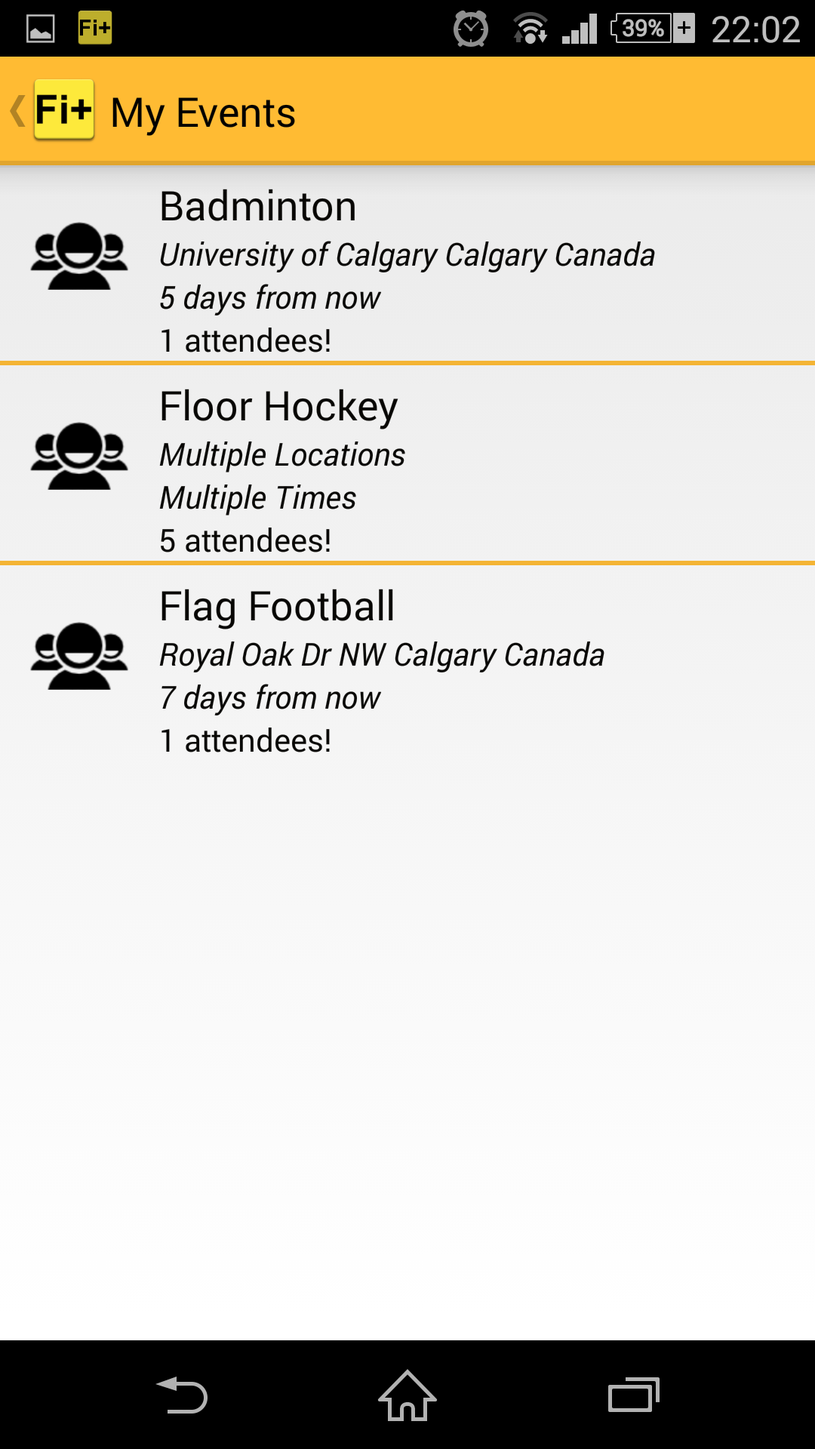
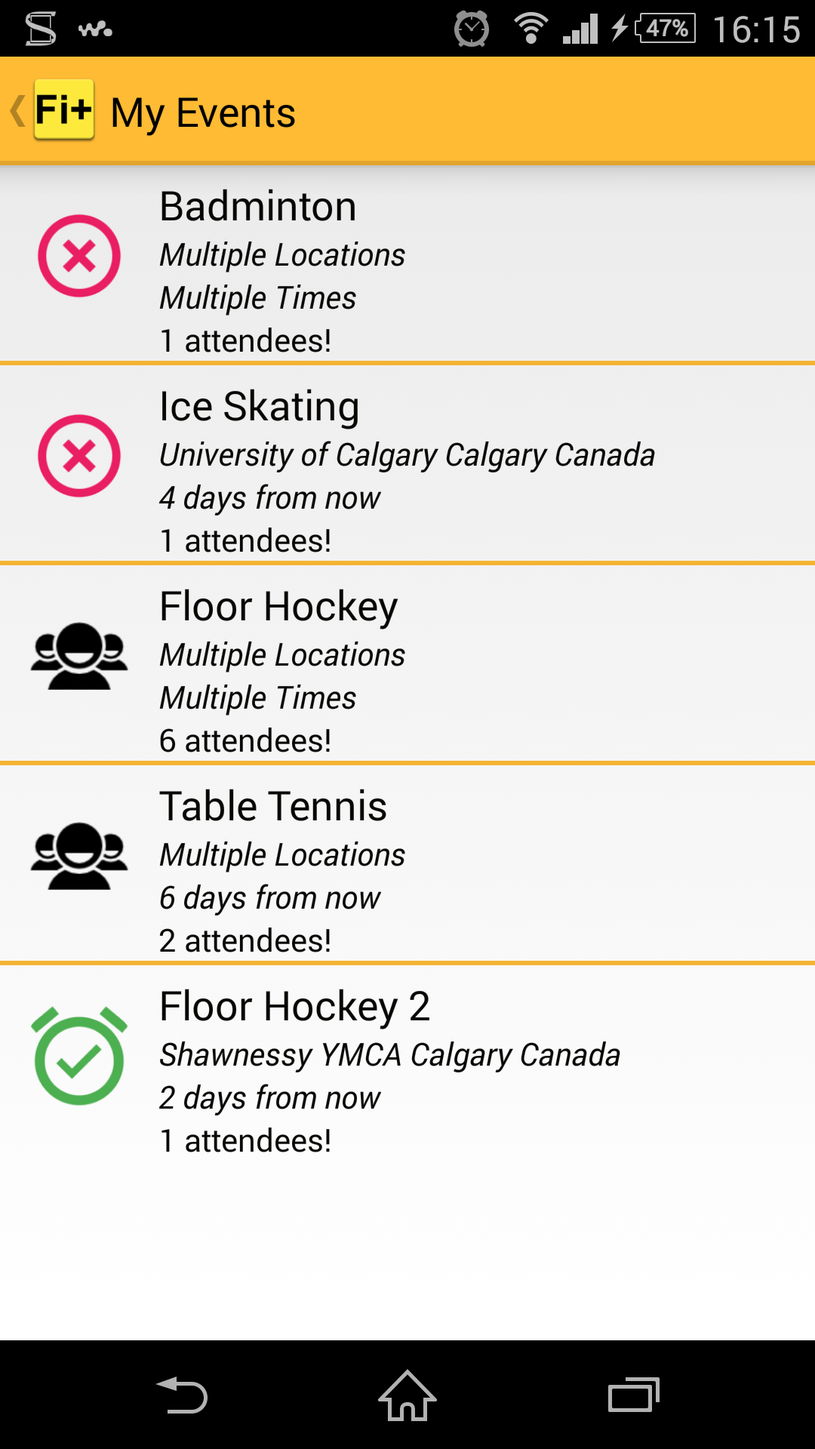
Mainpage and Tutorial updated with images and corrections

diff --git a/index.html b/index.html
@@ -14,7 +14,7 @@
 
     
     
-<style id="current-page-style">.page-help{display:inherit; }</style><link href="http://fonts.googleapis.com/css?family=Bree+Serif" rel="stylesheet" type="text/css" class="silex-custom-font">      <link href="css/styles.css" rel="stylesheet">      <script src="js/script.js" type="text/javascript"></script>  </head><body class="silex-runtime silex-container element-0 silex-runtime silex-published">
+<link href="http://fonts.googleapis.com/css?family=Bree+Serif" rel="stylesheet" type="text/css" class="silex-custom-font"><style id="current-page-style">.page-help{display:inherit; }</style>      <link href="css/styles.css" rel="stylesheet">      <script src="js/script.js" type="text/javascript"></script>  </head><body class="silex-runtime silex-container element-0 silex-runtime silex-published">
     <a id="page-mainpage" data-silex-type="page" class="page-element">Mainpage</a>
     
 
@@ -72,7 +72,7 @@
             
             
             
-            <div class="editable-style image-element paged-element page-mainpage silex-image element-3"><img src="assets/screen.png" class="silex-element-content"></div><div class="editable-style image-element paged-element page-mainpage silex-image element-4"><img src="assets/Banner%20-%20Lines.png" class="silex-element-content"></div>
+            <div class="editable-style image-element paged-element page-mainpage silex-image element-3"><img src="assets/screen.png" class="silex-element-content"></div>
             
             
             
@@ -82,67 +82,59 @@
             
             
             
-            <div class="editable-style text-element paged-element page-mainpage silex-text element-5">
-                <div class="silex-element-content normal"><div style="text-align: left;"><font face="Bree Serif" size="7">The Fi+ Android App</font></div><div style="text-align: left;"><b><font size="4" face="Bree Serif"><br></font></b></div><font face="Bree Serif" size="4">Create fitness events on the fly.<br><br>Connect with others who want to participate.<br><br>And find the events you want to join.</font><br><div><div style="text-align: left;"><b><span><font face="Bree Serif">&nbsp;&nbsp; &nbsp;<span>&nbsp;&nbsp; &nbsp;<span>&nbsp;&nbsp; &nbsp;<span>&nbsp;&nbsp; &nbsp;<span>&nbsp;&nbsp; &nbsp;<span>&nbsp;&nbsp; &nbsp;<span>&nbsp;&nbsp; &nbsp;<span>&nbsp;&nbsp; &nbsp;</span></span></span></span></span></span></span></font></span></b></div><div style="text-align: left;"><b><span><font face="Bree Serif"><span><span><span><span><span><span><span><br></span></span></span></span></span></span></span></font></span></b></div><div style="text-align: left;"><br></div><div style="text-align: left;"><font face="Bree Serif" size="5">How it Works</font></div><div style="text-align: left;"><font face="Bree Serif" size="4">Matchmaking!</font></div><div style="text-align: left;"><span style="font-family: 'Bree Serif';">Fi+ offers the basic matchmaking and event creating functionalities of popular Apps such as MeetUp and Facebook.</span></div><div style="text-align: left;"><div style="font-weight: bold;"><font face="Bree Serif"><br></font></div><div><font face="Bree Serif" size="4">Fostering an Active Community!</font></div><div><font face="Bree Serif">Fi+ is built on an event based community. As opposed to group based communities, which become inactive over time.&nbsp;</font></div><div style="font-weight: bold;"><font face="Bree Serif"><br></font></div><div style="font-family: 'Bree Serif';"><font size="4">Expand Your Network!&nbsp;</font></div><div style="font-family: 'Bree Serif';"><div style="display: inline !important;">Events are open to all users of the App, keeping barriers to entry low.&nbsp;</div></div><div style="font-family: 'Bree Serif';"><div style="display: inline !important;"><font size="4"><br></font></div></div><div style="font-family: 'Bree Serif';"><font size="4">Collaborative Planning!</font></div><div style="font-family: 'Bree Serif';">Creators can allow suggestions for time and location. So gauge your audience and take your pick.</div><div style="font-family: 'Bree Serif';"><br></div><div style="font-family: 'Bree Serif'; font-weight: bold;"><i><b><br></b></i></div><div><font face="Bree Serif" size="4" color="#cc0000">With Fi+, you can save your time and energy for the game!</font></div><div><font size="4" face="Bree Serif"><i><br></i></font></div><div><font face="Bree Serif" size="5">Where to Begin</font></div><div><font face="Bree Serif"><a href="https://play.google.com/store/apps/details?id=com.Fiplus&amp;hl=en"><font color="#0000ff">Click here</font></a> to download Fi+ from the Google Playstore!</font></div><div><br></div><div><br></div><div><div><font face="Bree Serif"><br></font></div><div><font face="Bree Serif"><br></font></div><div><font face="Bree Serif"><br></font></div><div><br></div></div><div><br></div><div><font face="Bree Serif"><br></font></div></div></div></div>
+            
+            
+            
+            
+            <div class="editable-style image-element page-mainpage paged-element silex-image element-4"><img src="assets/General.png" class="silex-element-content"></div>
+            
+            
+            
+            
+            
+            <div class="editable-style image-element page-mainpage paged-element silex-image element-5"><img src="assets/Login.png" class="silex-element-content"></div>
+            
+            
+            
+            
+            
+            <div class="editable-style image-element page-mainpage paged-element silex-image element-6"><img src="assets/Create.png" class="silex-element-content"></div>
+            
+            
+            
+            
+            
+            
+            
+            
+            
+            
+            
+            
+            
+            
+            
+            
+            
+            
+            
+            
+            
+            <div class="editable-style image-element page-help paged-element silex-image element-7"><img src="assets/Config.png" class="silex-element-content"></div><div class="editable-style image-element page-help paged-element silex-image element-8"><img src="assets/Config_Filled.png" class="silex-element-content"></div>
+            
+            <div class="editable-style image-element page-help paged-element silex-image element-9"><img src="assets/General.png" class="silex-element-content"></div><div class="editable-style text-element page-help paged-element silex-text element-10">
+                <div class="silex-element-content normal"><div><b style="font-family: 'Bree Serif';">2. Filtering</b></div><div><div><font face="Bree Serif">&nbsp; - See all available Events in the <font color="#990000">Be FI+!</font> tab.</font></div><div><font face="Bree Serif">&nbsp; - Filter Events by your profile&nbsp;<font color="#b45f06">Location </font>with the <font color="#990000">Near You</font> tab.<br></font></div><div><font face="Bree Serif">&nbsp; - Filter Events by your profile&nbsp;<font color="#b45f06">Interests </font>with the <font color="#990000">Interest </font>tab.&nbsp;</font></div><div><font face="Bree Serif"><span>&nbsp; -&nbsp;</span>Simply press an Event to view more details!</font></div><div><span style="font-family: 'Bree Serif';"><br></span></div></div></div>
             </div>
             
-            
-            
-            <div class="editable-style image-element page-mainpage paged-element silex-image element-6"><img src="assets/General.png" class="silex-element-content"></div>
-            
-            
-            
-            
-            
-            <div class="editable-style image-element page-mainpage paged-element silex-image element-7"><img src="assets/ViewEvent.png" class="silex-element-content"></div><div class="editable-style image-element page-mainpage paged-element silex-image element-8"><img src="assets/Login.png" class="silex-element-content"></div>
-            
-            
-            
-            <div class="editable-style image-element page-mainpage paged-element silex-image element-9"><img src="assets/MyEvents.png" class="silex-element-content"></div>
-            
-            <div class="editable-style image-element page-mainpage paged-element silex-image element-10"><img src="assets/Create.png" class="silex-element-content"></div>
-            
-            
-            
-            
-            
-            
-            
-            
-            
-            
-            
-            <a class="editable-style text-element page-mainpage paged-element page-link-active silex-text element-11" href="#!page-help">
-                <div class="silex-element-content normal"><div><div><font face="Bree Serif" color="#0000ff">Click here </font><font face="Bree Serif">for Help/Tutorial</font></div></div><div><font face="Bree Serif"><br></font></div></div>
-            </a><div class="editable-style text-element page-mainpage paged-element silex-text element-12">
-                <div class="silex-element-content normal"><div><br></div><div><div><div><font face="Bree Serif" size="5">Legal</font></div><div><font color="#0000ff"><a href="http://fiplus.github.io/PrivacyPolicy.html" style="font-family: 'Bree Serif';">Fi+ Privacy Policy</a><span style="font-family: 'Bree Serif';">&nbsp; &nbsp; &nbsp; &nbsp; &nbsp; &nbsp;&nbsp;</span></font></div><font color="#0000ff" style="font-family: 'Bree Serif';"><a href="http://fiplus.github.io/TermsOfUse.html">Fi+ Terms of Use</a></font></div><div><br></div><div><br></div><div><div><font face="Bree Serif" size="5">Contact Us</font></div><div><div><font face="Bree Serif">If you have any questions or feedback we would love to hear it!</font></div><div><font face="Bree Serif">You can reach us at&nbsp;<font color="#0000ff"><a href="mailto:social.fi.er@gmail.com">social.fi.er@gmail.com</a></font></font></div></div></div></div></div>
-            </div>
-            
-            
-            
-            
-            
-            
-            
-            
-            
-            <div class="editable-style image-element page-help paged-element silex-image element-13"><img src="assets/Config.png" class="silex-element-content"></div><div class="editable-style image-element page-help paged-element silex-image element-14"><img src="assets/Config_Filled.png" class="silex-element-content"></div>
-            
-            <div class="editable-style image-element page-help paged-element silex-image element-15"><img src="assets/General.png" class="silex-element-content"></div><div class="editable-style text-element page-help paged-element silex-text element-16">
-                <div class="silex-element-content normal"><div><b style="font-family: 'Bree Serif';">2. Filtering</b></div><div><div><font face="Bree Serif">&nbsp; - See all available Events in the <font color="#990000">Be FI+!</font> tab.</font></div><div><font face="Bree Serif">&nbsp; - Filter by Events near your <font color="#b45f06">Location </font>with the <font color="#990000">Near You</font> tab.<br></font></div><div><font face="Bree Serif">&nbsp; - Filter by Events in your <font color="#b45f06">Interests </font>with the <font color="#990000">Interest </font>tab.&nbsp;</font></div><div><font face="Bree Serif"><span>&nbsp; -&nbsp;</span>Simply press an Event to view more details!</font></div><div><span style="font-family: 'Bree Serif';"><br></span></div></div></div>
-            </div>
-            
-            <div class="editable-style text-element page-help paged-element silex-text element-17">
+            <div class="editable-style text-element page-help paged-element silex-text element-11">
                 <div class="silex-element-content normal"><div><div><b style="font-family: 'Bree Serif';">1. Configuring Your Profile</b></div><div><div><font face="Bree Serif">&nbsp; - Fill your&nbsp;<font color="#b45f06">Name</font>,<font color="#b45f06">&nbsp;Gender</font>,&nbsp;<font color="#b45f06">Age</font>,<font color="#e69138">&nbsp;</font>and&nbsp;<font color="#b45f06">Location</font></font></div><div><font face="Bree Serif">&nbsp; -<font color="#b45f06">&nbsp;</font>Fill your&nbsp;<font color="#b45f06">Interest&nbsp;</font>&amp; press&nbsp;<font color="#990000">Add&nbsp;</font>(Repeat for each interest)<br></font></div><div><font face="Bree Serif">&nbsp; - Press&nbsp;<font color="#990000">Save</font><br></font></div><div><br></div></div></div></div>
             </div>
             
-            <div class="editable-style image-element page-help paged-element silex-image element-18"><img src="assets/Interests.png" class="silex-element-content"></div><div class="editable-style image-element page-help paged-element silex-image element-19"><img src="assets/General.png" class="silex-element-content"></div><div class="editable-style text-element page-help paged-element silex-text element-20">
-                <div class="silex-element-content normal"><div><b style="font-family: 'Bree Serif';">3. Viewing an Event - Voting and Suggetions</b></div><div><div><font face="Bree Serif">&nbsp; - To vote,&nbsp;<font color="#990000">Check </font>the <font color="#b45f06">Location(s)</font> and <font color="#b45f06">Date(s) </font>you want.</font></div><div><font face="Bree Serif">&nbsp; - To suggest a Location, fill out <font color="#b45f06">Suggest Location</font> and press <font color="#990000">+</font>.<br></font></div><div><font face="Bree Serif">&nbsp; - To suggest a Date, press <font color="#b45f06">Suggest Time</font> and <font color="#990000">enter </font>the Date and Time.</font></div><div><font face="Bree Serif"><span>&nbsp; - To join the Event, press <font color="#990000">Join</font>!&nbsp;<br></span></font></div><div><font face="Bree Serif"><span>&nbsp; - Joined and Created Events will be under the <font color="#990000">My Events</font>&nbsp;calendar icon&nbsp;</span></font></div><div><font face="Bree Serif"><span><span>&nbsp;&nbsp; &nbsp;</span>on the top&nbsp;</span></font><span style="font-family: 'Bree Serif';">right of your screen.</span></div><div><br></div></div></div>
-            </div>
+            <div class="editable-style image-element page-help paged-element silex-image element-12"><img src="assets/Interests.png" class="silex-element-content"></div><div class="editable-style image-element page-help paged-element silex-image element-13"><img src="assets/General.png" class="silex-element-content"></div>
             
-            <div class="editable-style image-element page-help paged-element silex-image element-21"><img src="assets/MyEvents.png" class="silex-element-content"></div>
             
-            <div class="editable-style text-element page-help paged-element silex-text element-22">
+            
+            <div class="editable-style text-element page-help paged-element silex-text element-14">
                 <div class="silex-element-content normal"><div><b style="font-family: 'Bree Serif';">4. Viewing an Event - Favoriting Users</b></div><div><div><font face="Bree Serif">&nbsp; - To Favourite&nbsp;an User, <font color="#990000">view </font>an <font color="#b45f06">Event </font>they were in.&nbsp;</font></div><div><font face="Bree Serif">&nbsp; -&nbsp;<font color="#990000">Press </font>the <font color="#b45f06">User's</font></font><font face="Bree Serif"><font color="#b45f06">&nbsp;icon</font>&nbsp;</font><span style="font-family: 'Bree Serif';">at the top of the screen.&nbsp;</span></div><div><font style="font-family: 'Bree Serif';"><font color="#990000">&nbsp; </font>-<font color="#990000">&nbsp;Press </font></font><span style="font-family: 'Bree Serif';">the </span><font color="#b45f06" style="font-family: 'Bree Serif';">Star </font><span style="font-family: 'Bree Serif';">to Favourite the User (<font color="#6fa8dc">Blue </font>indicates Favourited).&nbsp;</span></div><div><font face="Bree Serif"><span>&nbsp; -&nbsp;</span>The User will now be available in Favourite Users under Settings.</font></div><div><font face="Bree Serif"><span>&nbsp; - You can see what Events they are attending and have attended!</span><br></font></div><div><br></div></div></div>
             </div>
             
@@ -150,25 +142,23 @@
             
             
             
-            <div class="editable-style image-element page-help paged-element silex-image element-23"><img src="assets/ViewProfileFav.png" class="silex-element-content"></div>
             
-            <div class="editable-style text-element page-help paged-element silex-text element-24">
-                <div class="silex-element-content normal"><div style="text-align: left;"><font face="Bree Serif" size="7">Fi+ Help</font></div><div style="text-align: left;"><br></div><div style="text-align: left;"><br></div><div style="text-align: left;"><br></div></div>
+            
+            
+            
+            <div class="editable-style image-element page-help paged-element silex-image element-15"><img src="assets/Create.png" class="silex-element-content"></div>
+            
+            
+            
+            
+            
+            
+            
+            <div class="editable-style text-element page-help paged-element silex-text element-16">
+                <div class="silex-element-content normal"><div><b style="font-family: 'Bree Serif';">5. Creating Events</b></div><div><div><div><span style="font-family: 'Bree Serif';">&nbsp; - Fill in <font color="#b45f06">Event Name</font>, <font color="#b45f06">Description</font>, and <font color="#b45f06">Max Attendees</font>.</span></div><div><span style="font-family: 'Bree Serif';">&nbsp; - Enter an <font color="#b45f06">Event Location</font> and press <font color="#990000">+</font>.<br></span></div><div><span style="font-family: 'Bree Serif';"><span><span>&nbsp; - P</span></span></span><span style="font-family: 'Bree Serif';">ress <font color="#b45f06">Suggest&nbsp;</font></span><font style="font-family: 'Bree Serif';" color="#b45f06">Time</font><span style="font-family: 'Bree Serif';">&nbsp;and&nbsp;</span><font color="#990000" style="font-family: 'Bree Serif';">enter&nbsp;</font><span style="font-family: 'Bree Serif';">the Date and Time.</span></div><div><span style="font-family: 'Bree Serif';">&nbsp; -&nbsp;<font color="#990000">Check </font><font color="#b45f06">Allow Suggestions</font> to enable participants to suggest dates and&nbsp;</span></div><div><span style="font-family: 'Bree Serif';"><span>&nbsp;&nbsp; &nbsp;</span>times for your event.</span></div><div><span style="font-family: 'Bree Serif';">&nbsp; - <font color="#990000">Enter </font><font color="#b45f06">Tags </font>to get your event seen by more Fi+ users during searches.</span></div></div></div><div><span style="font-family: 'Bree Serif';">&nbsp; - Your Event will appear under the <font color="#990000">My Events</font> tab.</span></div></div>
             </div>
             
-            <div class="editable-style image-element page-help paged-element silex-image element-25"><img src="assets/Create.png" class="silex-element-content"></div>
-            
-            
-            
-            
-            
-            
-            
-            <div class="editable-style text-element page-help paged-element silex-text element-26">
-                <div class="silex-element-content normal"><div><b style="font-family: 'Bree Serif';">5. Creating Events</b></div><div><div><div><span style="font-family: 'Bree Serif';">&nbsp; - Fill in <font color="#b45f06">Event Name</font>, <font color="#b45f06">Description</font>, and <font color="#b45f06">Max Attendees</font>.</span></div><div><span style="font-family: 'Bree Serif';">&nbsp; - Enter an <font color="#b45f06">Event Location</font> and press <font color="#990000">+</font>.<br></span></div><div><span style="font-family: 'Bree Serif';"><span><span>&nbsp; - P</span></span></span><span style="font-family: 'Bree Serif';">ress <font color="#b45f06">Suggest&nbsp;</font></span><font style="font-family: 'Bree Serif';" color="#b45f06">Time</font><span style="font-family: 'Bree Serif';">&nbsp;and&nbsp;</span><font color="#990000" style="font-family: 'Bree Serif';">enter&nbsp;</font><span style="font-family: 'Bree Serif';">the Date and Time.</span></div><div><span style="font-family: 'Bree Serif';">&nbsp; -&nbsp;<font color="#990000">Check </font><font color="#b45f06">Allow Suggestions</font> to enable participants to suggest dates and&nbsp;</span></div><div><span style="font-family: 'Bree Serif';"><span>&nbsp;&nbsp; &nbsp;</span>times for your event.</span></div><div><span style="font-family: 'Bree Serif';">&nbsp; - <font color="#990000">Enter </font><font color="#b45f06">Tags </font>to get your event seen by more Fi+ users during searches.</span></div></div></div><div><span style="font-family: 'Bree Serif';">&nbsp; - Your Event will appear under the <font color="#990000">My Events</font> tab.</span></div></div>
-            </div><div class="editable-style image-element page-help paged-element silex-image element-27"><img src="assets/Favourite.png" class="silex-element-content"></div>
-            
-            <div class="editable-style text-element page-help paged-element silex-text element-28">
+            <div class="editable-style text-element page-help paged-element silex-text element-17">
                 <div class="silex-element-content normal"><div><b style="font-family: 'Bree Serif';">6. Creating Events - Firming Up and Cancelling</b></div><div><div><div><span style="font-family: 'Bree Serif';">&nbsp; &nbsp; As the Host, you may finalize<font color="#990000">&nbsp;</font>the&nbsp;<font color="#b45f06">Location </font>and <font color="#b45f06">Date </font>of your Event. Or&nbsp;</span></div><div><span style="font-family: 'Bree Serif';"><span>&nbsp;&nbsp; &nbsp;</span>you may cancel the Event.</span></div><div><span style="font-family: 'Bree Serif';">&nbsp; - <font color="#990000">View </font>your Event under the <font color="#b45f06">My Events</font> tab.</span></div></div></div><div><span style="font-family: 'Bree Serif';">&nbsp; - To Firm Up, <font color="#990000">press </font><font color="#b45f06">Confirm Event</font> and <font color="#990000">choose </font>the <font color="#b45f06">Location </font>and <font color="#b45f06">Date&nbsp;</font></span></div><div><span style="font-family: 'Bree Serif';"><span>&nbsp;&nbsp; &nbsp;</span>you want.&nbsp;</span></div><div><span style="font-family: 'Bree Serif';"><span>&nbsp;&nbsp; &nbsp;</span>Press Confirm Event (The Event will now have a <font color="#6aa84f">Green Icon</font> indicating&nbsp;</span></div><div><span style="font-family: 'Bree Serif';"><span>&nbsp;&nbsp; &nbsp;</span>it has been Firmed Up).</span></div><div><span style="font-family: 'Bree Serif';">&nbsp; - To Cancel, <font color="#990000">press </font><font color="#b45f06">Cancel Event</font>. (The Event will now have a <font color="#cc0000">Red icon</font>&nbsp;</span></div><div><span style="font-family: 'Bree Serif';"><span>&nbsp;&nbsp; &nbsp;</span>indicating&nbsp;</span><span style="font-family: 'Bree Serif';">it has been Cancelled).</span></div><div><span style="font-family: 'Bree Serif';"><br></span></div></div>
             </div>
             
@@ -178,14 +168,52 @@
             
             
             
-            <div class="editable-style image-element page-help paged-element silex-image element-29"><img src="assets/CreateFilled.png" class="silex-element-content"></div>
+            <div class="editable-style image-element page-help paged-element silex-image element-18"><img src="assets/CreateFilled.png" class="silex-element-content"></div>
             
-            <div class="editable-style image-element page-help paged-element silex-image element-30"><img src="assets/Confirm.png" class="silex-element-content"></div>
             
-            <div class="editable-style image-element page-help paged-element silex-image element-31"><img src="assets/MyEvents.png" class="silex-element-content"></div><div class="editable-style image-element page-help paged-element silex-image element-32"><img src="assets/Confirmed.png" class="silex-element-content"></div><div class="editable-style image-element page-help paged-element silex-image element-33"><img src="assets/Cancelled.png" class="silex-element-content"></div><div class="editable-style text-element page-help paged-element page-mainpage silex-text element-34">
-                <div class="silex-element-content normal"><div style="text-align: center;"><font face="Bree Serif" size="2"><i>This site was created with&nbsp;<font color="#0000ff"><a href="http://www.silex.me/">Silex</a></font></i></font></div></div>
+            
+            
+            
+            <div class="editable-style text-element page-help paged-element silex-text element-19">
+                <div class="silex-element-content normal"><div><b style="font-family: 'Bree Serif';">3. Viewing an Event - Voting and Suggestions</b></div><div><div><font face="Bree Serif">&nbsp; - To vote,&nbsp;<font color="#990000">Check </font>the <font color="#b45f06">Location(s)</font> and <font color="#b45f06">Date(s) </font>you want.</font></div><div><font face="Bree Serif">&nbsp; - To suggest a Location, fill out <font color="#b45f06">Suggest Location</font> and press <font color="#990000">+</font>.<br></font></div><div><font face="Bree Serif">&nbsp; - To suggest a Date, press <font color="#b45f06">Suggest Time</font> and <font color="#990000">enter </font>the Date and Time.</font></div><div><font face="Bree Serif"><span>&nbsp; - To join the Event, press <font color="#990000">Join</font>!&nbsp;<br></span></font></div><div><font face="Bree Serif"><span>&nbsp; - Joined and Created Events will be under the <font color="#990000">My Events</font>&nbsp;calendar icon&nbsp;</span></font></div><div><font face="Bree Serif"><span><span>&nbsp;&nbsp; &nbsp;</span>on the top&nbsp;</span></font><span style="font-family: 'Bree Serif';">right of your screen.</span></div><div><br></div></div></div>
             </div>
             
-            <a class="editable-style text-element page-help paged-element silex-text element-35" href="#!page-mainpage">
-                <div class="silex-element-content normal"><font face="Bree Serif" color="#0000ff">Click here </font><font face="Bree Serif">to return to the Mainpage.</font></div>
-            </a></div></body></html>
+            
+            
+            <div class="editable-style text-element paged-element page-mainpage silex-text element-20">
+                <div class="silex-element-content normal"><div style="text-align: left;"><font face="Bree Serif" size="7">The Fi+ Android App</font></div><div style="text-align: left;"><b><font size="4" face="Bree Serif"><br></font></b></div><font face="Bree Serif" size="4">Create fitness events on the fly.<br><br>Connect with others who want to participate.<br><br>And find the events you want to join.</font><br><div><div style="text-align: left;"><b><span><font face="Bree Serif">&nbsp;&nbsp; &nbsp;<span>&nbsp;&nbsp; &nbsp;<span>&nbsp;&nbsp; &nbsp;<span>&nbsp;&nbsp; &nbsp;<span>&nbsp;&nbsp; &nbsp;<span>&nbsp;&nbsp; &nbsp;<span>&nbsp;&nbsp; &nbsp;<span>&nbsp;&nbsp; &nbsp;</span></span></span></span></span></span></span></font></span></b></div><div style="text-align: left;"><b><span><font face="Bree Serif"><span><span><span><span><span><span><span><br></span></span></span></span></span></span></span></font></span></b></div><div style="text-align: left;"><br></div><div style="text-align: left;"><font face="Bree Serif" size="5">How it Works</font></div><div style="text-align: left;"><font face="Bree Serif" size="4">Matchmaking!</font></div><div style="text-align: left;"><span style="font-family: 'Bree Serif';">Fi+ offers the basic matchmaking and event creating functionalities of popular Apps such as MeetUp and Facebook.</span></div><div style="text-align: left;"><div style="font-weight: bold;"><font face="Bree Serif"><br></font></div><div><font face="Bree Serif" size="4">Fostering an Active Community!</font></div><div><font face="Bree Serif">Fi+ is built on an event based community. As opposed to group based communities, which become inactive over time.&nbsp;</font></div><div style="font-weight: bold;"><font face="Bree Serif"><br></font></div><div style="font-family: 'Bree Serif';"><font size="4">Expand Your Network!&nbsp;</font></div><div style="font-family: 'Bree Serif';"><div style="display: inline !important;">Events are open to all users of the App, keeping barriers to entry low.&nbsp;</div></div><div style="font-family: 'Bree Serif';"><div style="display: inline !important;"><font size="4"><br></font></div></div><div style="font-family: 'Bree Serif';"><font size="4">Collaborative Planning!</font></div><div style="font-family: 'Bree Serif';">Creators can allow suggestions for time and location. So gauge your audience and take your pick.</div><div style="font-family: 'Bree Serif';"><br></div><div style="font-family: 'Bree Serif'; font-weight: bold;"><i><b><br></b></i></div><div><font face="Bree Serif" size="4" color="#cc0000">With Fi+, you can save your time and energy for the game!</font></div><div><font size="4" face="Bree Serif"><i><br></i></font></div><div><font face="Bree Serif" size="5">Where to Begin</font></div><div><font face="Bree Serif"><a href="https://play.google.com/store/apps/details?id=com.Fiplus&amp;hl=en"><font color="#0000ff">Click here</font></a> to download Fi+ from the Google Playstore!</font></div><div><br></div><div><br></div><div><div><font face="Bree Serif"><br></font></div><div><font face="Bree Serif"><br></font></div><div><font face="Bree Serif"><br></font></div><div><br></div></div><div><br></div><div><font face="Bree Serif"><br></font></div></div></div></div>
+            </div><div class="editable-style image-element paged-element page-mainpage silex-image element-21"><img src="assets/Banner%20-%20Lines.png" class="silex-element-content"></div>
+            
+            
+            
+            
+            
+            <a class="editable-style text-element page-mainpage paged-element page-link-active silex-text element-22" href="#!page-help">
+                <div class="silex-element-content normal"><div><div><font face="Bree Serif" color="#0000ff">Help/Tutorial</font></div></div><div><font face="Bree Serif"><br></font></div></div>
+            </a><div class="editable-style text-element page-mainpage paged-element silex-text element-23">
+                <div class="silex-element-content normal"><div><br></div><div><div><div><font face="Bree Serif" size="5">Legal</font></div><div><font color="#0000ff"><a href="http://fiplus.github.io/PrivacyPolicy.html" style="font-family: 'Bree Serif';">Fi+ Privacy Policy</a><span style="font-family: 'Bree Serif';">&nbsp; &nbsp; &nbsp; &nbsp; &nbsp; &nbsp;&nbsp;</span></font></div><font color="#0000ff" style="font-family: 'Bree Serif';"><a href="http://fiplus.github.io/TermsOfUse.html">Fi+ Terms of Use</a></font></div><div><br></div><div><br></div><div><div><font face="Bree Serif" size="5">Contact Us</font></div><div><div><font face="Bree Serif">If you have any questions or feedback we would love to hear it!</font></div><div><font face="Bree Serif">You can reach us at&nbsp;<font color="#0000ff"><a href="mailto:social.fi.er@gmail.com">social.fi.er@gmail.com</a></font></font></div></div></div></div></div>
+            </div>
+            
+            <div class="editable-style image-element page-mainpage paged-element silex-image element-24"><img src="assets/ViewEvent.png" class="silex-element-content"></div>
+            
+            
+            
+            
+            
+            
+            
+            <div class="editable-style image-element page-mainpage paged-element silex-image element-25"><img src="assets/MyEvents.png" class="silex-element-content"></div>
+            
+            <div class="editable-style image-element page-help paged-element silex-image element-26"><img src="assets/ViewEvent.png" class="silex-element-content"></div>
+            
+            <div class="editable-style image-element page-help paged-element silex-image element-27"><img src="assets/ViewProfile.png" class="silex-element-content"></div>
+            
+            <div class="editable-style image-element page-help paged-element silex-image element-28"><img src="assets/Favorite.png" class="silex-element-content"></div>
+            
+            <div class="editable-style image-element page-help paged-element silex-image element-29"><img src="assets/FirmUp.png" class="silex-element-content"></div><div class="editable-style image-element page-help paged-element silex-image element-30"><img src="assets/MyEvents.png" class="silex-element-content"></div><div class="editable-style text-element page-help paged-element page-mainpage silex-text element-31">
+                <div class="silex-element-content normal"><div style="text-align: center;"><font face="Bree Serif" size="2"><i>This site was created with&nbsp;<font color="#0000ff"><a href="http://www.silex.me/">Silex</a></font></i></font></div></div>
+            </div><a class="editable-style text-element page-help paged-element silex-text element-32" href="#!page-mainpage">
+                <div class="silex-element-content normal"><font face="Bree Serif" color="#0000ff">Return to Mainpage.</font></div>
+            </a><div class="editable-style text-element page-help paged-element silex-text element-33">
+                <div class="silex-element-content normal"><div style="text-align: left;"><font face="Bree Serif" size="7">Fi+ Help</font></div><div style="text-align: left;"><br></div><div style="text-align: left;"><br></div><div style="text-align: left;"><br></div></div>
+            </div></div></body></html>

diff --git a/css/styles.css b/css/styles.css
@@ -3,7 +3,7 @@
 	left: 0px; top: 0px; background-color: rgb(41, 41, 41);
 }
 .element-1{
-	top: 5px; left: 108px; width: 1044px; height: 2441px; box-sizing: content-box; background-color: rgb(215, 215, 215);
+	top: 5px; left: 55px; width: 1044px; height: 1989px; box-sizing: content-box; background-color: rgb(215, 215, 215);
 }
 .element-2{
 	height: 1920px; width: 1px; top: 530px; left: -497px; position: absolute;
@@ -12,98 +12,92 @@
 	height: 457px; width: 257px; top: 520px; left: 500px; position: absolute;
 }
 .element-4{
-	height: 500px; width: 1046px; top: -3px; left: -1px; position: absolute; box-sizing: content-box;
-}
-.element-5{
-	height: 801px; width: 478px; top: 510px; left: 24px; position: absolute; box-sizing: content-box; background-color: transparent;
-}
-.element-6{
 	height: 457px; width: 257px; top: 980px; left: 500px; position: absolute;
 }
-.element-7{
-	height: 457px; width: 257px; top: 980px; left: 765px; position: absolute;
-}
-.element-8{
+.element-5{
 	height: 457px; width: 257px; top: 520px; left: 765px; position: absolute;
 }
-.element-9{
-	height: 457px; width: 257px; top: 1440px; left: 765px; position: absolute;
-}
-.element-10{
+.element-6{
 	height: 457px; width: 257px; top: 1440px; left: 500px; position: absolute;
 }
-.element-11{
-	height: 21px; width: 200px; top: 1314px; left: 24px; position: absolute; box-sizing: content-box;
-}
-.element-12{
-	height: 249px; width: 470px; top: 1339px; left: 24px; position: absolute; box-sizing: content-box;
-}
-.element-13{
+.element-7{
 	height: 457px; width: 257px; top: 195px; left: 0px; position: absolute;
 }
-.element-14{
+.element-8{
 	height: 457px; width: 257px; top: 195px; left: 259px; position: absolute;
 }
-.element-15{
+.element-9{
 	height: 457px; width: 257px; top: 195px; left: 527px; position: absolute;
 }
-.element-16{
+.element-10{
 	height: 138px; width: 515px; top: 81px; left: 526px; position: absolute; box-sizing: content-box;
 }
-.element-17{
+.element-11{
 	height: 138px; width: 515px; top: 82px; left: 4px; position: absolute; box-sizing: content-box;
 }
-.element-18{
+.element-12{
 	height: 457px; width: 257px; top: 195px; left: 786px; position: absolute;
 }
-.element-19{
+.element-13{
 	height: 457px; width: 257px; top: 820px; left: 0px; position: absolute;
 }
-.element-20{
-	height: 152px; width: 515px; top: 665px; left: 4px; position: absolute; box-sizing: content-box;
-}
-.element-21{
-	height: 457px; width: 257px; top: 820px; left: 259px; position: absolute;
-}
-.element-22{
+.element-14{
 	height: 152px; width: 515px; top: 665px; left: 526px; position: absolute; box-sizing: content-box;
 }
-.element-23{
-	height: 457px; width: 257px; top: 820px; left: 527px; position: absolute;
-}
-.element-24{
-	height: 82px; width: 478px; top: -1px; left: 389px; position: absolute; box-sizing: content-box; background-color: transparent;
-}
-.element-25{
+.element-15{
 	height: 457px; width: 257px; top: 1500px; left: 0px; position: absolute;
 }
-.element-26{
+.element-16{
 	height: 178px; width: 515px; top: 1280px; left: 4px; position: absolute; box-sizing: content-box;
 }
-.element-27{
-	height: 457px; width: 257px; top: 819px; left: 786px; position: absolute;
-}
-.element-28{
+.element-17{
 	height: 220px; width: 515px; top: 1280px; left: 526px; position: absolute; box-sizing: content-box;
 }
-.element-29{
+.element-18{
 	height: 457px; width: 257px; top: 1500px; left: 259px; position: absolute;
+}
+.element-19{
+	height: 152px; width: 515px; top: 665px; left: 4px; position: absolute; box-sizing: content-box;
+}
+.element-20{
+	height: 779px; width: 478px; top: 510px; left: 24px; position: absolute; box-sizing: content-box; background-color: transparent;
+}
+.element-21{
+	height: 500px; width: 1046px; top: -3px; left: -1px; position: absolute; box-sizing: content-box;
+}
+.element-22{
+	height: 21px; width: 98px; top: 1289px; left: 24px; position: absolute; box-sizing: content-box;
+}
+.element-23{
+	height: 249px; width: 470px; top: 1313px; left: 24px; position: absolute; box-sizing: content-box;
+}
+.element-24{
+	height: 457px; width: 257px; top: 980px; left: 765px; position: absolute;
+}
+.element-25{
+	height: 457px; width: 257px; top: 1440px; left: 765px; position: absolute;
+}
+.element-26{
+	height: 457px; width: 257px; top: 820px; left: 259px; position: absolute;
+}
+.element-27{
+	height: 457px; width: 257px; top: 820px; left: 527px; position: absolute;
+}
+.element-28{
+	height: 457px; width: 257px; top: 820px; left: 786px; position: absolute;
+}
+.element-29{
+	height: 457px; width: 257px; top: 1500px; left: 527px; position: absolute;
 }
 .element-30{
 	height: 457px; width: 257px; top: 1500px; left: 786px; position: absolute;
 }
 .element-31{
-	height: 457px; width: 257px; top: 1500px; left: 527px; position: absolute;
+	height: 21px; width: 1029px; top: 1963px; left: 6px; position: absolute; box-sizing: content-box;
 }
 .element-32{
-	height: 457px; width: 257px; top: 1960px; left: 786px; position: absolute;
+	height: 22px; width: 147px; top: 20px; left: 434px; position: absolute; box-sizing: content-box;
 }
 .element-33{
-	height: 457px; width: 257px; top: 1960px; left: 527px; position: absolute;
-}
-.element-34{
-	height: 21px; width: 1029px; top: 2420px; left: 8px; position: absolute; box-sizing: content-box;
-}
-.element-35{
-	height: 20px; width: 265px; top: 2159px; left: 100px; position: absolute; box-sizing: content-box;
+	height: 65px; width: 478px; top: 0px; left: 27px; position: absolute; box-sizing: content-box; background-color: transparent;
 }
